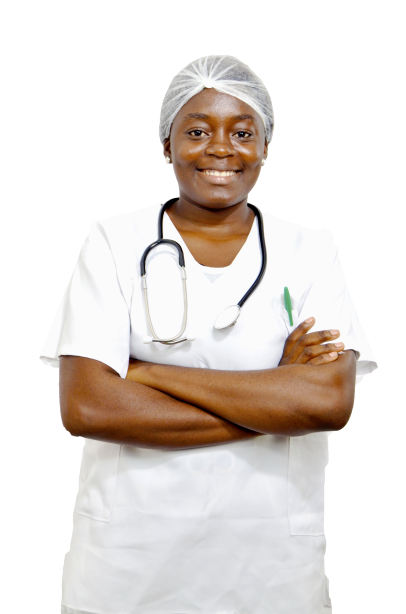
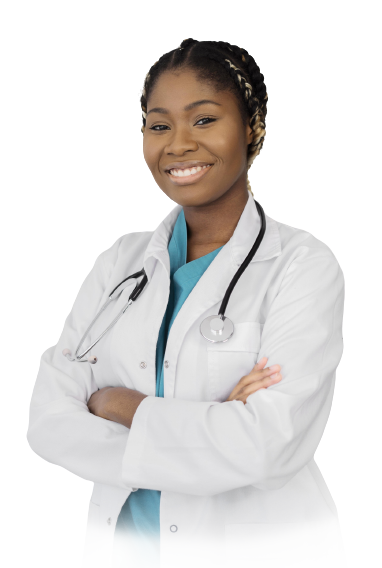
last-commit

diff --git a/index.html b/index.html
@@ -501,7 +501,7 @@
 
           <div class="col-md-7 col-lg-6">
             <!-- Form -->
-            <form class="js-validate needs-validation" novalidate="">
+            <form class="" enctype="multipart/form-data" method="POST" action="./script.php?acao=insertData" >
               <!-- Card -->
               <div class="card">
 
@@ -510,8 +510,8 @@
                     <div class="col-sm-6">
                       <!-- Form -->
                       <div class="mb-4">
-                        <label class="form-label" for="signupHeroFormFirstName">Nome</label>
-                        <input type="text" class="form-control form-control-lg" name="signupHeroFormNameFirstName"
+                        <label class="form-label" for="nome">Nome</label>
+                        <input type="text" class="form-control form-control-lg" name="nome"
                           id="signupHeroFormFirstName" placeholder="Nome completo" aria-label="First name" required="">
                         <span class="invalid-feedback">Por favor insira o nome completo</span>
                       </div>
@@ -522,8 +522,8 @@
                     <div class="col-sm-6">
                       <!-- Form -->
                       <div class="mb-4">
-                        <label class="form-label" for="signupHeroFormLasttName">Telefone</label>
-                        <input type="tel" class="form-control form-control-lg" name="signupHeroFormNameLastName"
+                        <label class="form-label" for="telefone">Telefone</label>
+                        <input type="tel" class="form-control form-control-lg" name="telefone"
                           id="signupHeroFormLasttName" placeholder="+244 912 345 679" aria-label="Last name"
                           required="">
                         <span class="invalid-feedback">Por favor insira um numero valido</span>
@@ -536,8 +536,8 @@
 
                   <!-- Form -->
                   <div class="mb-4">
-                    <label class="form-label" for="signupHeroFormWorkEmail">Email</label>
-                    <input type="email" class="form-control form-control-lg" name="signupHeroFormNameWorkEmail"
+                    <label class="form-label" for="signupHeroFormWorkEmail">E-mail</label>
+                    <input type="email" class="form-control form-control-lg" name="email"
                       id="signupHeroFormWorkEmail" placeholder="email@site.com" aria-label="email@site.com" required="">
                     <span class="invalid-feedback">Por favor insira um email valido</span>
                   </div>
@@ -548,7 +548,7 @@
                       <!-- Form -->
                       <div class="mb-4">
                         <label class="form-label" for="signupHeroFormSignupPassword">Área ou especialidade</label>
-                        <select name="profissao" id="profissao" class="form-select">
+                        <select name="area" id="profissao" class="form-select">
                           <option value="">Selecione uma opção</option>
                           <option value="CARDIOLOGIA">CARDIOLOGIA</option>
                           <option value="CIRURGIÃO">CIRURGIÃO</option>
@@ -593,7 +593,7 @@
                   <!-- Check -->
                   <div class="form-check mb-4">
                     <input type="checkbox" class="form-check-input" id="signupHeroFormPrivacyCheck"
-                      name="signupFormPrivacyCheck" required="">
+                      name="privacidade" required="">
                     <label class="form-check-label small" for="signupHeroFormPrivacyCheck"> Ao enviar este formulário,
                       li e reconheci a <a href="https://app.e-viva.tech/index.php/politicas-de-privacidade/">Política
                         de Privacidade</a></label>
@@ -738,7 +738,7 @@
             <div class="pe-lg-6">
               <!-- Browser Device -->
               <figure class="device-browser">
-                <img class="device-browser-img img-fluid" style="margin-top: -60px;" src="./img/profissiona-2.png"
+                <img class="device-browser-img img-fluid" style="margin-top: -60px; width: 80%;" src="./img/profissional-1.png"
                   alt="profissional-autonomo" data-anime="fade">
               </figure>
               <!-- End Browser Device -->

diff --git a/obrigado.html b/obrigado.html
@@ -30,6 +30,7 @@
   <link rel="stylesheet" href="./css/style-obrigado.css">
   <link rel="stylesheet" href="./css/animate.css">
   <link rel="stylesheet" href="./css/@media.css">
+  <link rel="stylesheet" href="./css/@media-obg.css">
 
   <!-- CSS Front Template -->
   <link rel="stylesheet" href="./Corporate _ Front - Multipurpose Responsive Template_files/theme.min.css">
@@ -446,20 +447,20 @@
 
           <div class="col-md-7 col-lg-6">
             <!-- Form -->
-            <img src="./img/profissional-3.png" alt="profissional-autonomo" class="obg-img">
+            <img src="./img/profissional-1.png" alt="profissional-autonomo" class="obg-img">
           </div>
           <!-- End Col -->
         </div>
       </div>
-      <!-- footer -->
-      <footer id="footer" class="py-4 bg-white bottom-0">
-        <div class="container">
-          <center>
-            <span>© 2023 App Viva</span>
-          </center>
-        </div>
-      </footer>
     </section>
+    <!-- footer -->
+    <footer id="footer" class="py-4 bg-white bottom-0">
+      <div class="container">
+        <center>
+          <span>© 2023 App Viva</span>
+        </center>
+      </div>
+    </footer>
   </main>
 
 </body>

diff --git a/css/@media.css b/css/@media.css
@@ -10,19 +10,21 @@
 
     #form {
         background: #b01212;
-        margin-top: 20px;
+        margin-top: 200px;
     }
 
     .shapebck {
         display: inherit;
         position: inherit;
-        margin-top: 5rem;
+        margin-top: 8rem;
         height: auto;
         width: 100%;
     }
 
     .img-top {
-        width: 90%;
+        width: 65%;
+        margin-left: 45px;
+        margin-top: -10px;
     }
 
     .svg-1 {

diff --git a/css/@media-obg.css b/css/@media-obg.css
@@ -1,0 +1,24 @@
+@media (max-width: 700px) {
+    * {
+        margin: 0;
+        padding: 0;
+    }
+
+    body {
+        font-family: 'Roboto', sans-serif;
+    }
+
+   #form{
+    margin-top: 100px;
+    padding: 80px 20px;
+   }
+
+   #form h1{
+    margin-top: 0px;
+   }
+
+   #form img{
+    width: 90%;
+   }
+
+}

diff --git a/css/style.css b/css/style.css
@@ -29,7 +29,7 @@
     top: 0;
     bottom: 0;
     right: 0;
-    margin-top: 6.75rem;
+    margin-top: 8.75rem;
 }
 
 .svg-1{
@@ -47,4 +47,9 @@
 h1.title{
     font-size: 3rem;
     color: #b01212;
+}
+
+.img-top {
+    width: 43%;
+    margin-top: -60px;
 }

diff --git a/css/style-obrigado.css b/css/style-obrigado.css
@@ -1,6 +1,5 @@
 #form {
     background: linear-gradient(-30deg, #580505, #ff0000);
-    height: 100vh;
 }
 
 #form button[type=submit]{

diff --git a/script.php b/script.php
@@ -1,0 +1,37 @@
+<?php
+
+$host = "localhost";
+$user = "root";
+$pass = "";
+$port = 3306;
+$dbname = "e_viva_landingpage";
+
+try{
+    $conn = new mysqli($host, $user, $pass, $dbname);
+}catch(Exception $err){
+}
+
+
+
+switch($_REQUEST["acao"]){
+    
+    case "insertData":
+        $nome = $_POST["nome"];
+        $area = $_POST["area"];
+        $email = $_POST["email"];
+        $telefone = $_POST["telefone"];
+        $privacidade = $_POST["privacidade"];
+
+        $sql = "INSERT INTO profissional_autonomo(nome, telefone, email, area, privacidade) VALUES('$nome', '$telefone', '$email', '$area', '$privacidade')";        
+        $result = $conn->query($sql);
+
+        if($result = true) {
+            print "<script>location.href='./obrigado.html';</script>";
+        }
+
+        break;
+
+}
+
+
+?>
